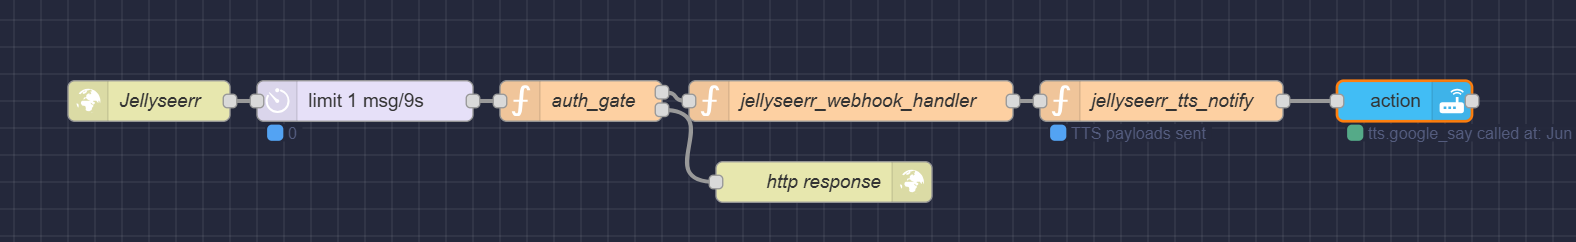
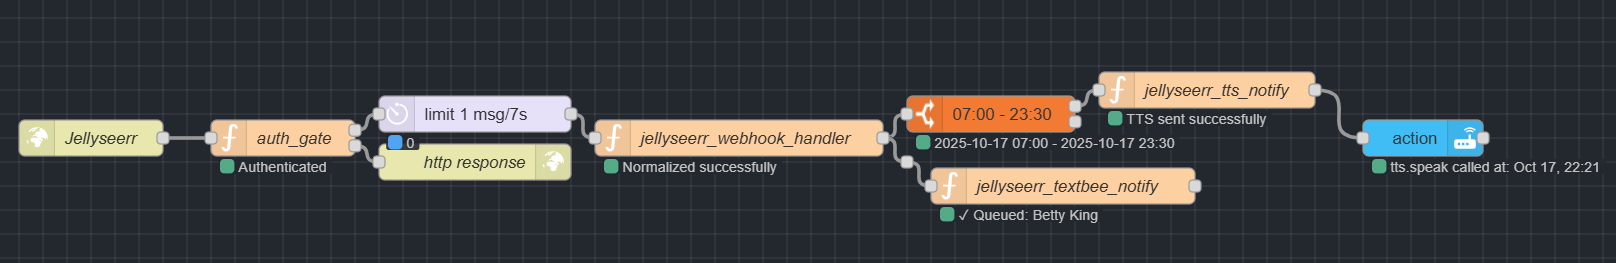
Refactors file structure and clarifies SMS status logic
Moves notification scripts into a dedicated directory for better organization. Simplifies SMS status handling by treating all queued messages as "Sent" for clarity, reflecting TextBee's queue-based behavior. Improves logging for response structures and renames setup comments for accuracy.

diff --git a/requests_flow/jellyseerr_textbee_notify/jellyseerr_textbee_notify.js b/requests_flow/jellyseerr_textbee_notify/jellyseerr_textbee_notify.js
@@ -468,7 +468,7 @@ async function sendSms(config, phoneNumber, message) {
     log(`TextBee API HTTP Status: ${response.status}`, "info");
     log(`TextBee full response: ${JSON.stringify(response.data)}`, "info");
     log(`TextBee response type: ${typeof response.data}`, "debug");
-    log(`TextBee response keys: ${Object.keys(response.data || {}).join(', ')}`, "info");
+    log(`TextBee top-level keys: ${Object.keys(response.data || {}).join(', ')}`, "info");
     node.trace(`TextBee raw response: ${JSON.stringify(response.data, null, 2)}`);
     
     // Try multiple response structure patterns
@@ -477,6 +477,7 @@ async function sendSms(config, phoneNumber, message) {
         // Pattern 1: { data: { _id, status, ... } }
         responseData = response.data.data;
         log("Using response.data.data structure", "debug");
+        log(`SMS response keys: ${Object.keys(responseData || {}).join(', ')}`, "info");
     } else if (response.data?._id || response.data?.id || response.data?.status) {
         // Pattern 2: { _id, status, ... } (direct structure)
         responseData = response.data;
@@ -722,19 +723,11 @@ async function sendSms(config, phoneNumber, message) {
         log(`Total SMS sent this session: ${smsCount}`, "debug");
         
         // Update node status with SMS status
-        let statusText = `Sent to ${user.name}`;
+        // Note: TextBee always returns QUEUED (batch queue system), so we show "Sent" for clarity
+        let statusText = `✓ Sent: ${user.name}`;
         let statusColor = "green";
         
-        if (result.status === "PENDING" || result.status === "QUEUED" || result.status === "ACCEPTED") {
-            statusText = `✓ Queued: ${user.name}`;
-            statusColor = "green";  // Green because queued = success with TextBee
-        } else if (result.status === "SENT") {
-            statusText = `✓ Sent: ${user.name}`;
-            statusColor = "green";
-        } else if (result.status === "DELIVERED") {
-            statusText = `✓ Delivered: ${user.name}`;
-            statusColor = "green";
-        } else if (result.status === "UNKNOWN") {
+        if (result.status === "UNKNOWN") {
             statusText = `Sent: ${user.name} (status unknown)`;
             statusColor = "yellow";
         }

diff --git a/requests_flow/jellyseerr_textbee_notify/jellyseerr_textbee_notify_SETUP.js b/requests_flow/jellyseerr_textbee_notify/jellyseerr_textbee_notify_SETUP.js
@@ -1,5 +1,5 @@
 /**
- * SETUP TAB CODE (On Start)
+ * START TAB CODE
  * 
  * Copy this entire file content into the "On Start" tab in Node-RED Function node editor.
  * 
